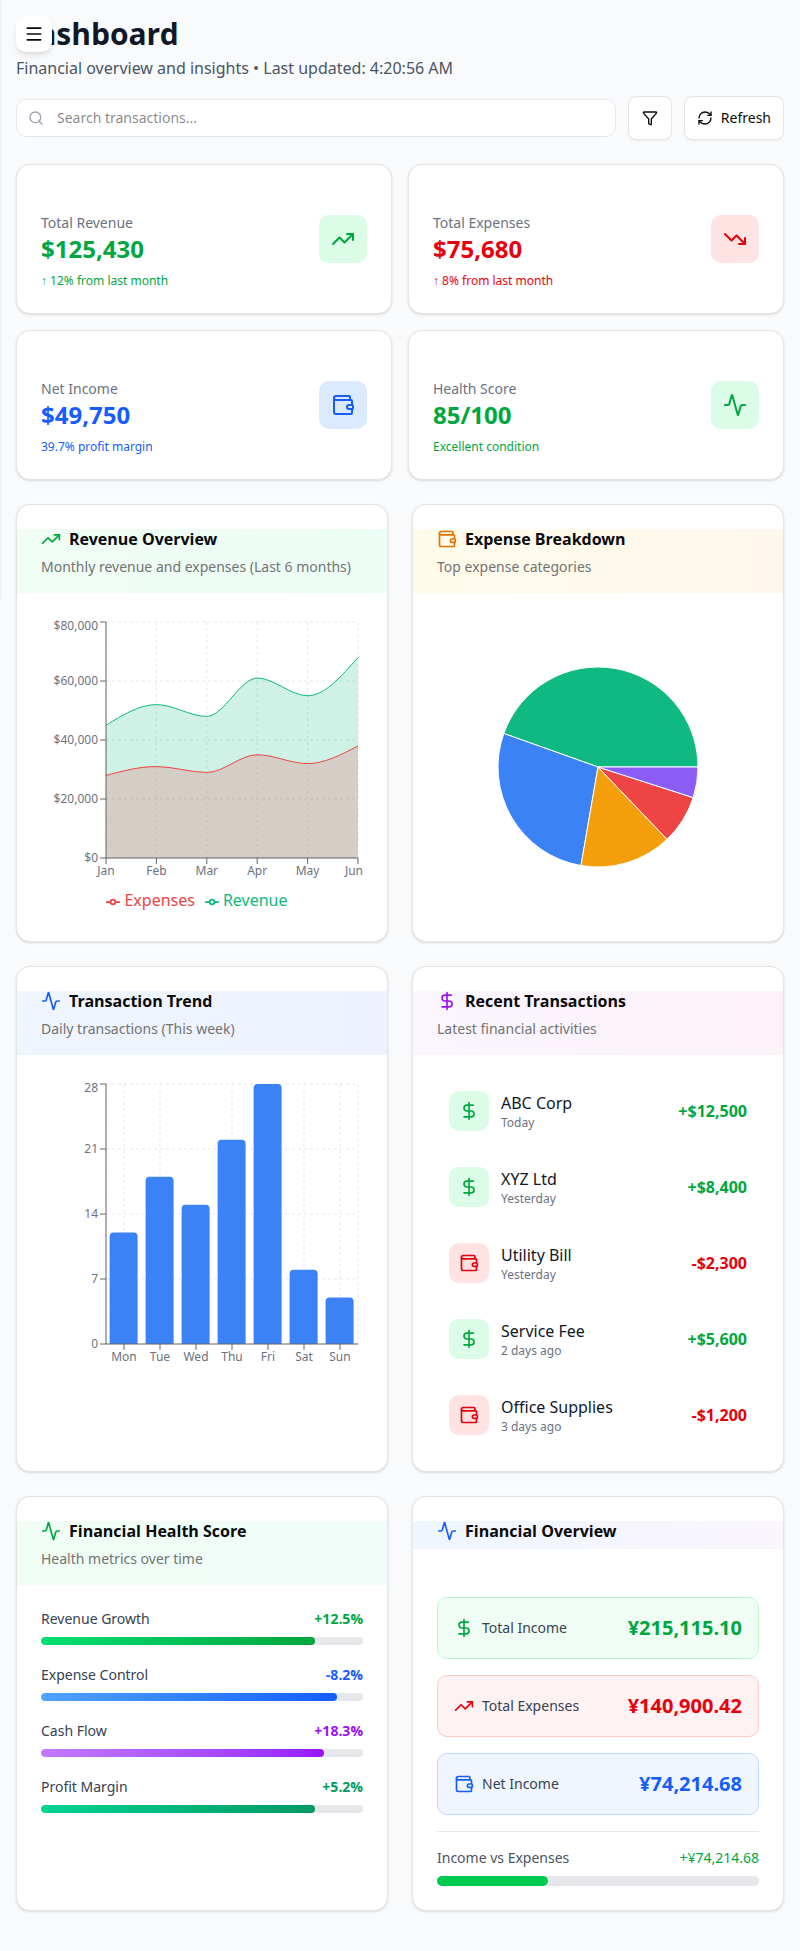
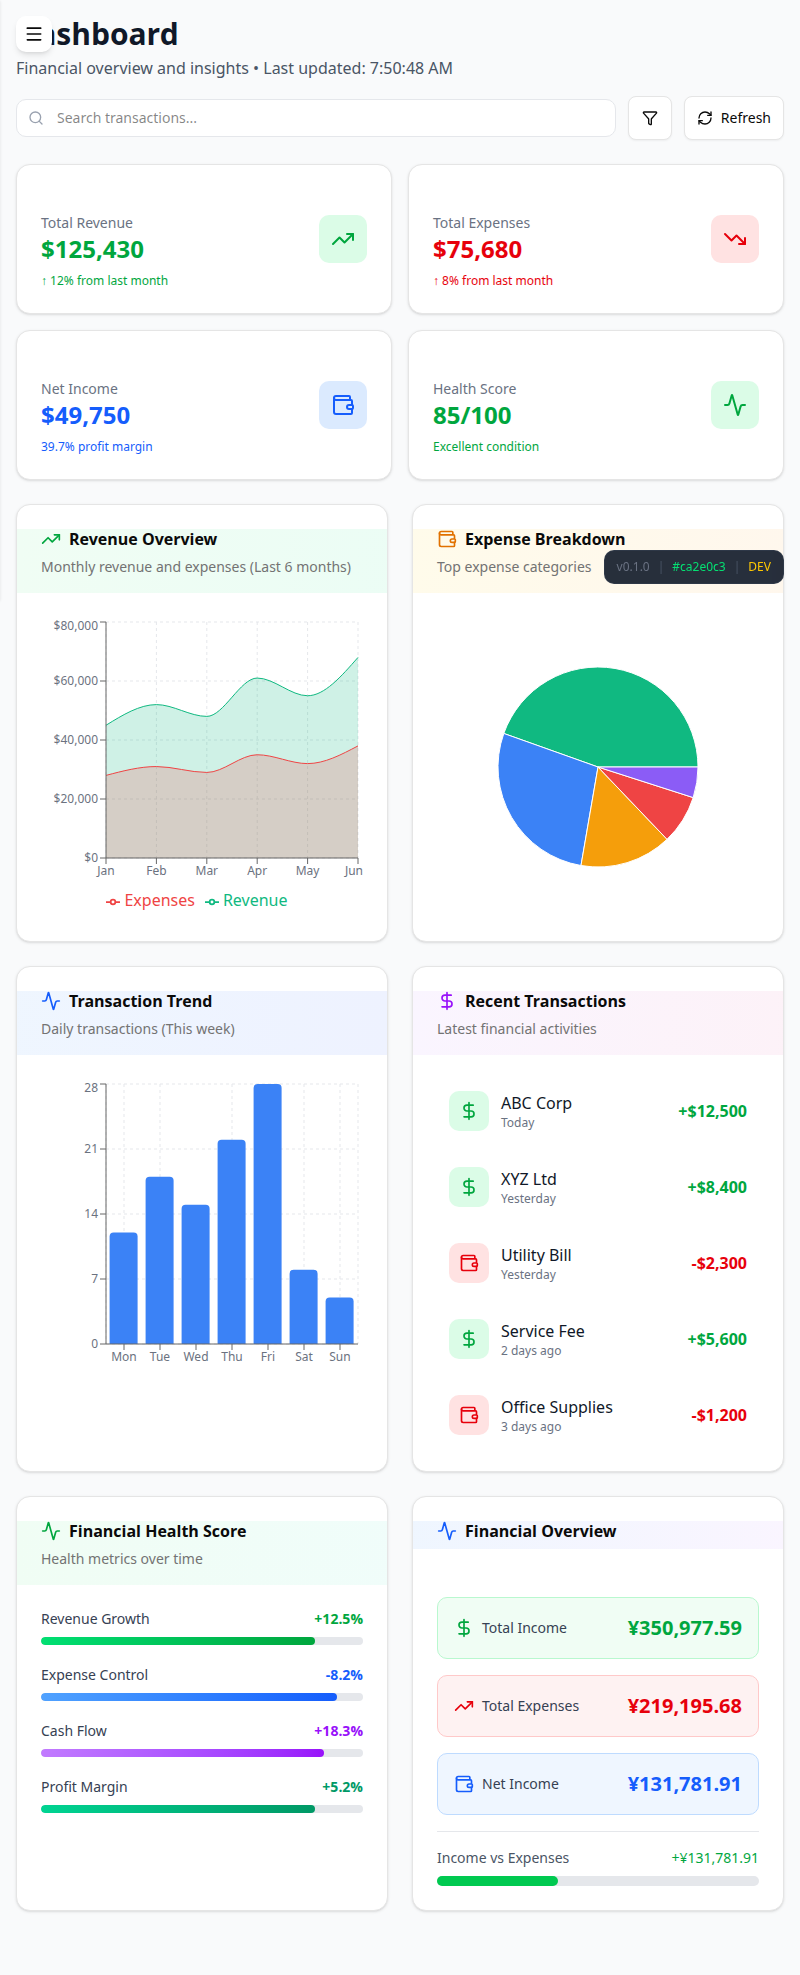
test: update QA screenshots and report (3rd round, 10/10 passing)

diff --git a/src/lib/version.ts b/src/lib/version.ts
@@ -1,11 +1,11 @@
 // Auto-generated at build time - DO NOT EDIT
 export const VERSION_INFO = {
   version: "0.1.0",
-  commitHash: "92e13a5",
-  buildDate: "2026-02-27T03:56:13.710Z",
+  commitHash: "ca2e0c3",
+  buildDate: "2026-02-27T04:39:18.878Z",
   environment: "development",
 };
 
 export const VERSION = "0.1.0";
-export const COMMIT_HASH = "92e13a5";
-export const BUILD_DATE = "2026-02-27T03:56:13.710Z";
+export const COMMIT_HASH = "ca2e0c3";
+export const BUILD_DATE = "2026-02-27T04:39:18.878Z";
